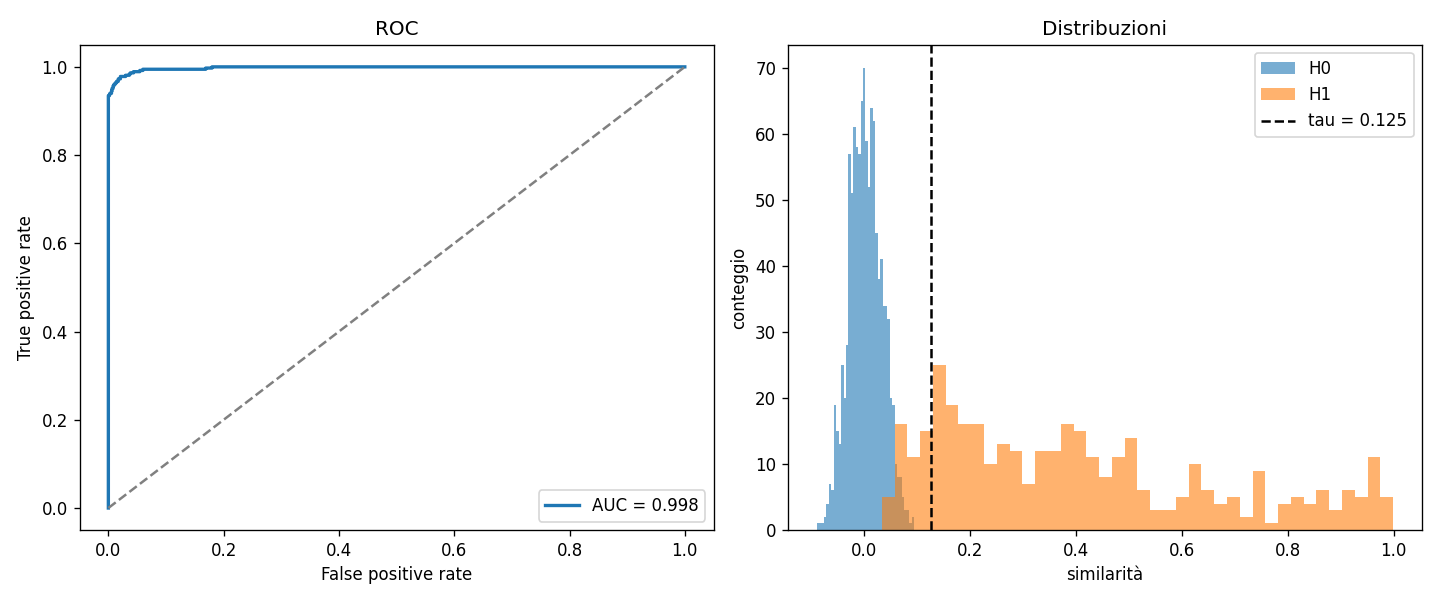
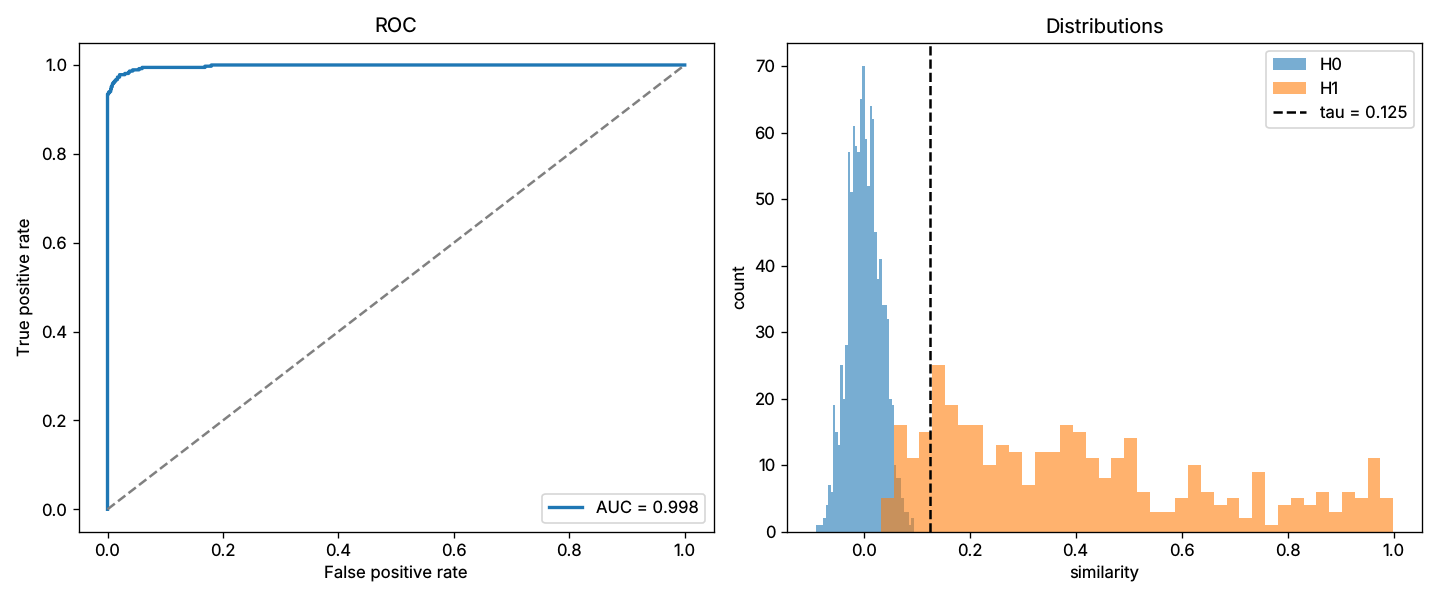
Update roc_clk.py docstrings and regenerate roc_clk.png
roc_clk.py: docstrings of embed_dct_ss, compute_scores and choose_tau
rewritten as in the final delivery version; no code changes.

roc_clk.png: regenerated with the current roc_clk.py on the 101 images
(TAU 0.1253, FPR 0.0000, AUC 0.998), so the plot labels now match the
script (English).

Claude-Session: https://claude.ai/code/session_015sn64n2WbBAsctrBSW4VQ1

diff --git a/roc_clk.py b/roc_clk.py
@@ -225,17 +225,15 @@ def random_attack(img, rng):
 
 ALPHA = 5.0          # mark strength: WPSNR about 64 dB
 
-
 def dct2(img):
     return dct(dct(img, axis=0, norm="ortho"), axis=1, norm="ortho")
-
 
 def idct2(coeff):
     return idct(idct(coeff, axis=1, norm="ortho"), axis=0, norm="ortho")
 
 
 def embed_dct_ss(original, bits, alpha=ALPHA):
-    """Embeds the 0/1 bits into the uint8 image 'original'. Returns uint8."""
+    """Hides the watermark bits inside the original image and returns the watermarked image."""
     x = 2.0 * np.asarray(bits, dtype=float) - 1.0        # 0/1 -> -1/+1
     coeff = dct2(original.astype(float))
     signs = np.sign(coeff)
@@ -252,9 +250,6 @@ def embed_dct_ss(original, bits, alpha=ALPHA):
     return np.clip(np.rint(result), 0, 255).astype(np.uint8)
 
 
-# ---------------------------------------------------------------------------
-# Copied from detection_clk.py (threshold written there and extraction)
-# ---------------------------------------------------------------------------
 DET_ALPHA = 5.0
 DET_TAU = 0.1253     # threshold from the ROC (ALPHA = 5): TPR 0.875, FPR 0 on 1101 H0 cases
 
@@ -277,7 +272,12 @@ SEED = 2026
 
 
 def compute_scores(paths, embed, extract, param, bits, rng):
-    """Returns (scores, labels) of H1 and H0 for the given images."""
+    """
+    Collects similarity scores from attack tests:
+      - label 1: images WITH our mark (scores should be high).
+      - label 0: images WITHOUT our mark (scores should be near 0).
+    Returns (scores, labels) to build the ROC curve.
+    """
     scores, labels = [], []
     for path in paths:
         orig = read_gray(path)
@@ -302,7 +302,12 @@ def compute_scores(paths, embed, extract, param, bits, rng):
 
 
 def choose_tau(scores, labels, fpr_target=FPR_TARGET):
-    """Tau with the highest TPR among those with FPR <= fpr_target (LAB-4)."""
+    """
+    Finds the best detection threshold (TAU):
+      - Maximizes detection rate (catches our mark as often as possible).
+      - Keeps false alarms close to zero (FPR <= target).
+    Returns the optimal TAU and ROC curve stats.
+    """
     fpr, tpr, thr = roc_curve(labels, scores, drop_intermediate=False)
     valid = np.flatnonzero(fpr <= fpr_target)
     best = valid[np.argmax(tpr[valid])]
